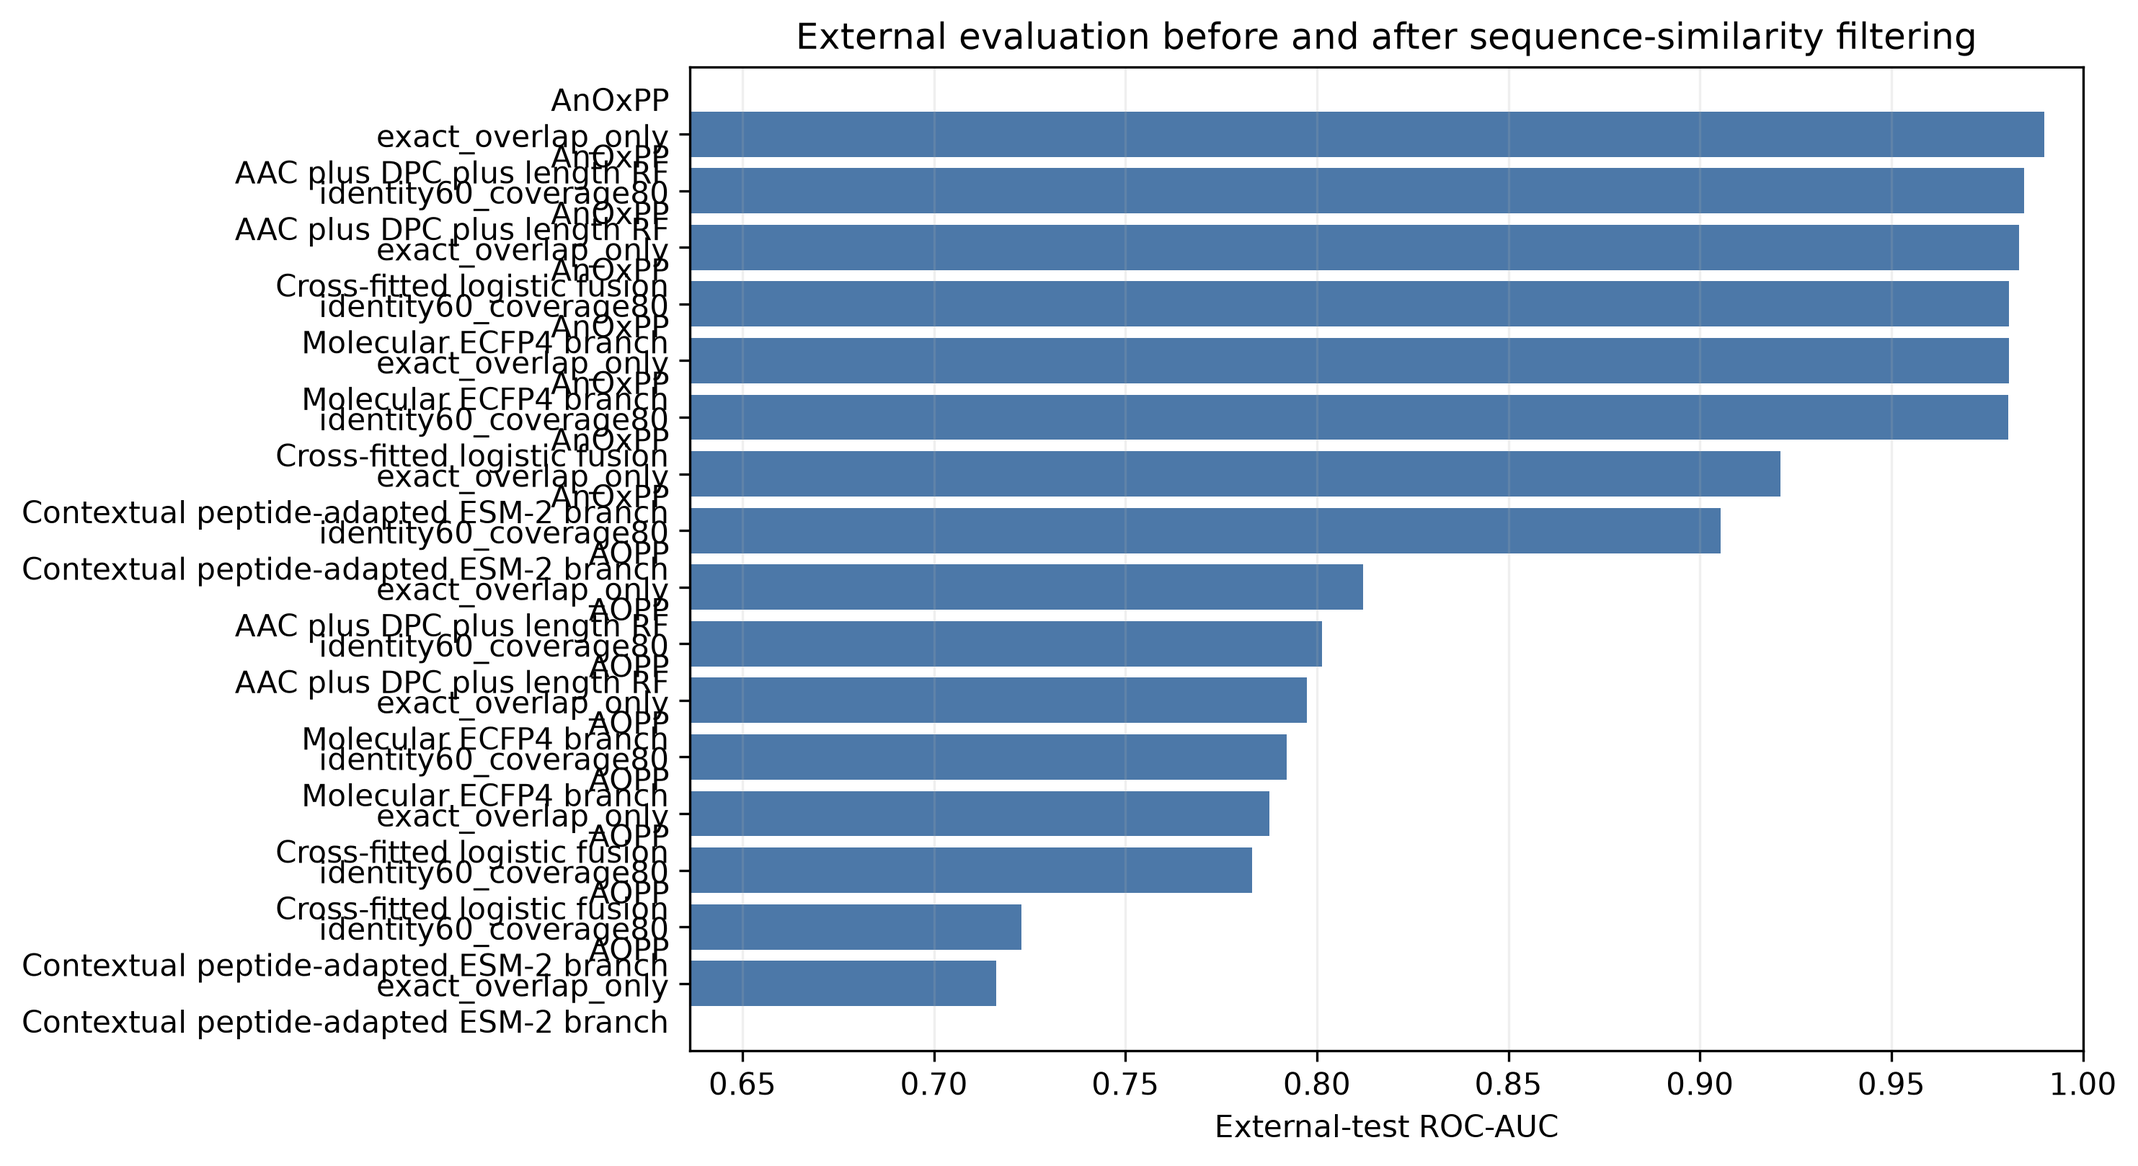
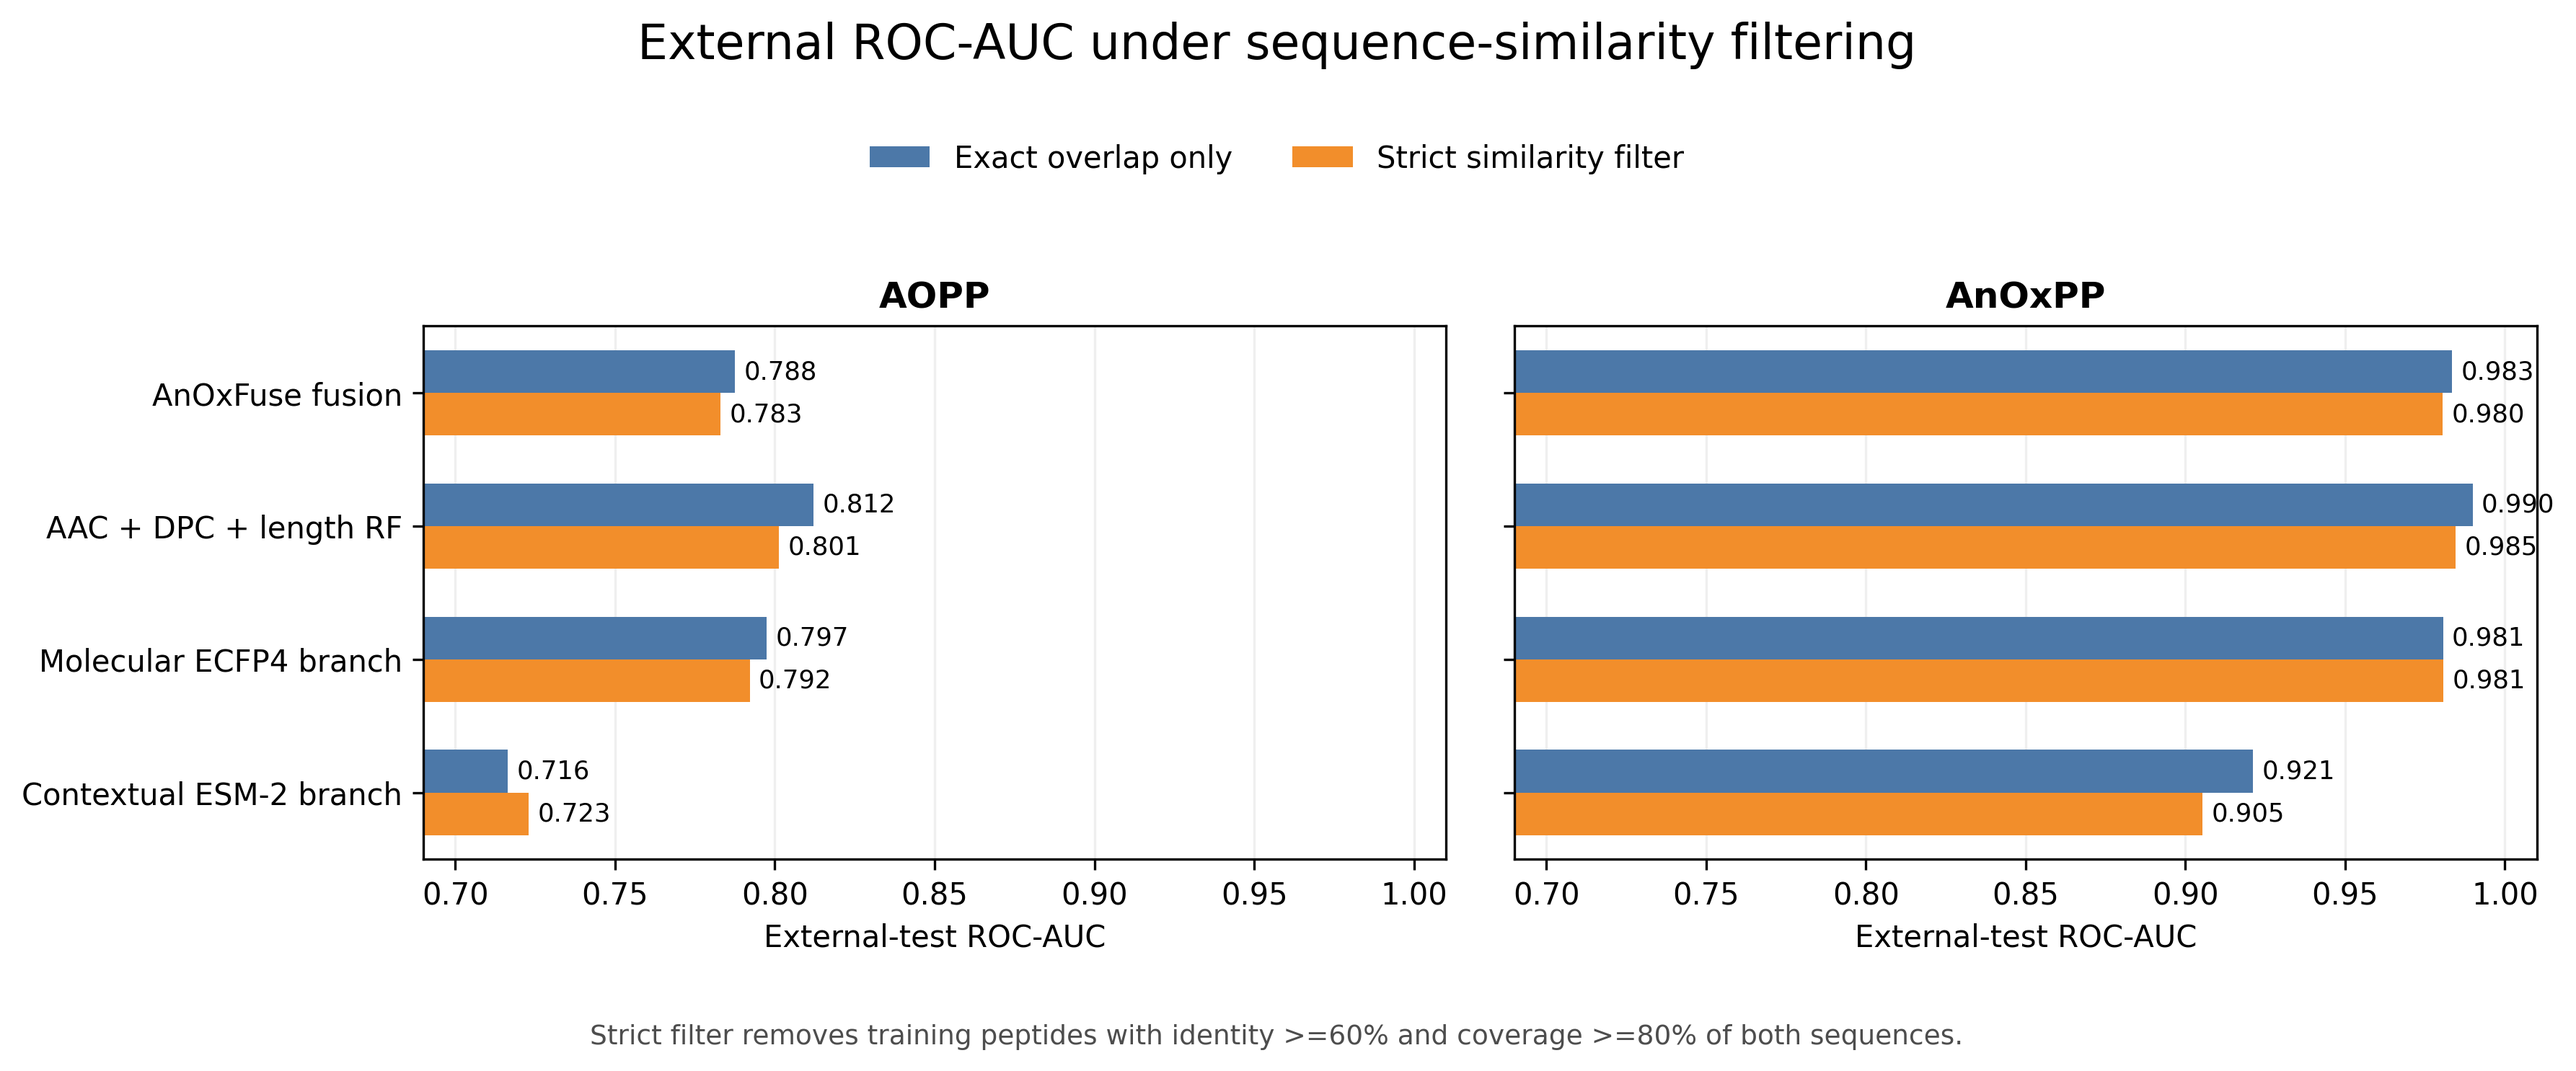
Fix external evaluation figure layout
Replace the unreadable 16-row multiline bar chart with separate AOPP and AnOxPP panels. Show four model rows per panel, paired exact-overlap and strict-similarity bars, and numeric ROC-AUC labels without changing any results. Update both published figure copies and the generating workflow.

diff --git a/reproducibility/reviewer_revision/run_gpu_revision.py b/reproducibility/reviewer_revision/run_gpu_revision.py
@@ -749,15 +749,70 @@ def create_gpu_figures(shuffle_summary, external_metrics):
             ]
         )
     ].copy()
-    labels = [f"{row.dataset}\n{row.protocol}\n{row.model}" for row in subset.itertuples()]
-    fig, ax = plt.subplots(figsize=(10, max(5.5, 0.32 * len(subset))))
-    order = np.argsort(subset.AUC.to_numpy())
-    ax.barh(np.asarray(labels)[order], subset.AUC.to_numpy()[order], color="#4c78a8")
-    ax.set_xlim(max(0.5, float(subset.AUC.min() - 0.08)), 1.0)
-    ax.set_xlabel("External-test ROC-AUC")
-    ax.set_title("External evaluation before and after sequence-similarity filtering")
-    ax.grid(axis="x", alpha=0.2)
-    fig.tight_layout()
+    model_order = [
+        "Cross-fitted logistic fusion",
+        "AAC plus DPC plus length RF",
+        "Molecular ECFP4 branch",
+        "Contextual peptide-adapted ESM-2 branch",
+    ]
+    model_labels = [
+        "AnOxFuse fusion",
+        "AAC + DPC + length RF",
+        "Molecular ECFP4 branch",
+        "Contextual ESM-2 branch",
+    ]
+    protocols = ["exact_overlap_only", "identity60_coverage80"]
+    protocol_labels = ["Exact overlap only", "Strict similarity filter"]
+    colors = ["#4c78a8", "#f28e2b"]
+    y = np.arange(len(model_order), dtype=float)
+    bar_height = 0.32
+
+    fig, axes = plt.subplots(1, 2, figsize=(12.4, 4.9), sharex=True, sharey=True)
+    for ax, dataset_name in zip(axes, ["AOPP", "AnOxPP"]):
+        dataset = subset[subset.dataset == dataset_name]
+        pivot = dataset.pivot(index="model", columns="protocol", values="AUC").reindex(model_order)
+        for protocol_index, (protocol, label, color) in enumerate(
+            zip(protocols, protocol_labels, colors)
+        ):
+            values = pivot[protocol].to_numpy(dtype=float)
+            offsets = y + (protocol_index - 0.5) * bar_height
+            bars = ax.barh(
+                offsets,
+                values,
+                height=bar_height,
+                color=color,
+                label=label,
+            )
+            ax.bar_label(bars, fmt="%.3f", padding=3, fontsize=8.5)
+        ax.set_title(dataset_name, fontweight="bold")
+        ax.set_xlabel("External-test ROC-AUC")
+        ax.set_xlim(0.69, 1.01)
+        ax.set_xticks(np.arange(0.70, 1.01, 0.05))
+        ax.set_yticks(y, labels=model_labels)
+        ax.grid(axis="x", alpha=0.2)
+        ax.set_axisbelow(True)
+
+    axes[0].invert_yaxis()
+
+    handles, legend_labels = axes[0].get_legend_handles_labels()
+    fig.legend(
+        handles,
+        legend_labels,
+        loc="upper center",
+        bbox_to_anchor=(0.5, 0.89),
+        ncol=2,
+        frameon=False,
+    )
+    fig.suptitle("External ROC-AUC under sequence-similarity filtering", fontsize=16, y=0.98)
+    fig.text(
+        0.5,
+        0.015,
+        "Strict filter removes training peptides with identity >=60% and coverage >=80% of both sequences.",
+        ha="center",
+        fontsize=9,
+        color="#4d4d4d",
+    )
+    fig.tight_layout(rect=(0.02, 0.07, 0.99, 0.84), w_pad=1.8)
     fig.savefig(FIGURE_DIR / "external_similarity_protocol_auc.png", dpi=300, bbox_inches="tight")
     plt.close(fig)
 
